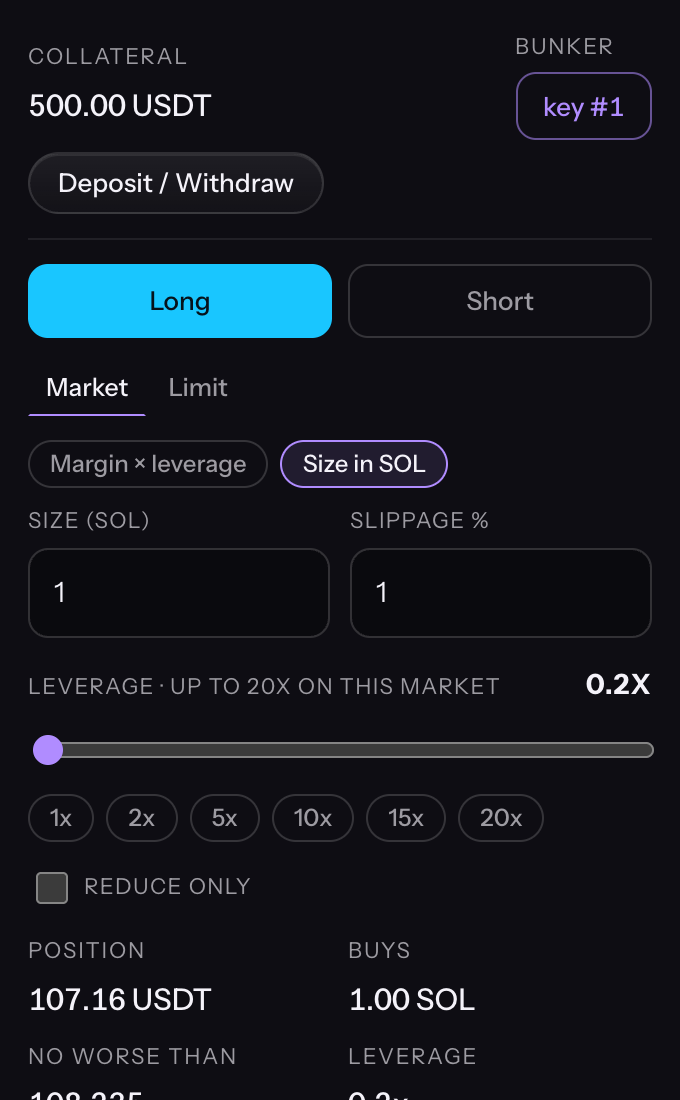
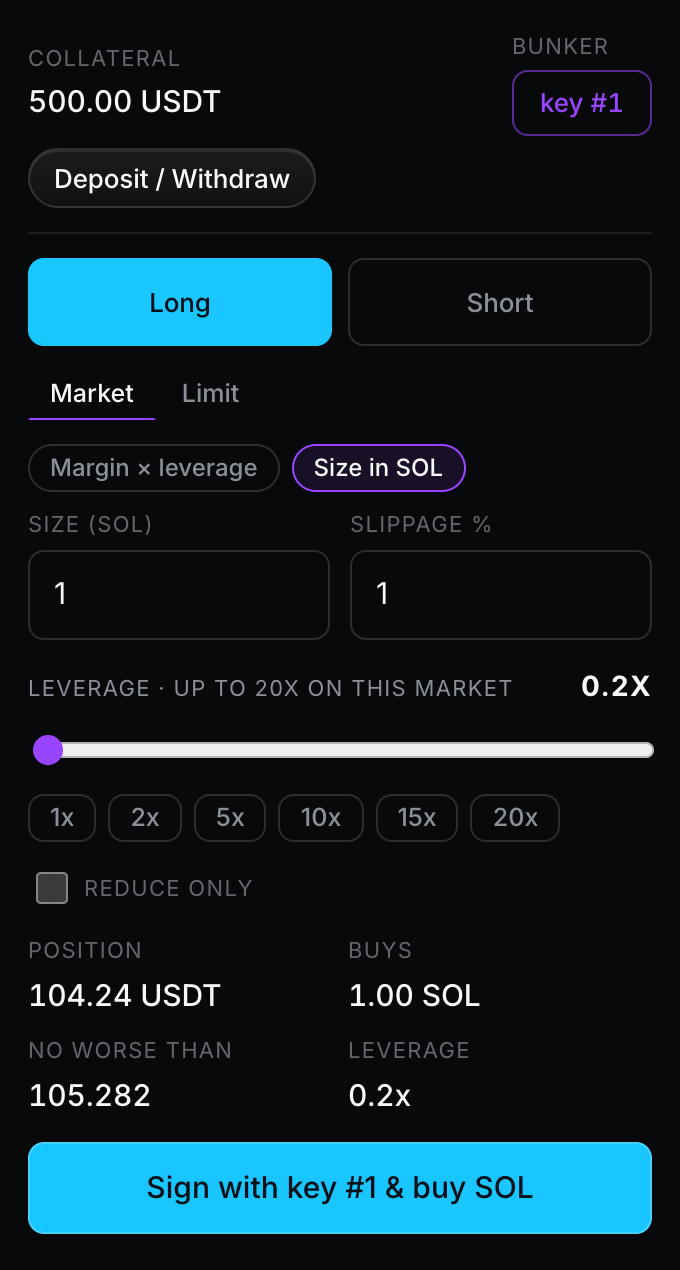
Home: a trail of purple light follows the pointer across the dark and the words light up from behind; the terminal block shows the chart and the whole order panel, nothing cut

Changed region(s): [[0.0309, 0.0309, 0.9574, 1.0], [0.7412, 0.0309, 0.9574, 0.1236], [0.9265, 0.2782, 0.9574, 0.3091]]

diff --git a/web/src/style.css b/web/src/style.css
@@ -1130,3 +1130,18 @@ input, textarea, select { font-family: var(--font); font-size: 15px; letter-spac
 #app .side button.long:not(.on), #app .side button.short:not(.on) { background: transparent; color: var(--muted); border: 1px solid var(--line-strong); }
 .brand b { font-family: var(--font-title); text-transform: none; letter-spacing: -0.02em; font-weight: 500; }
 .brand b span { color: var(--text); }
+
+/* ---- the purple trail under the pointer, and the words lit from behind ---- */
+.trail { position: fixed; inset: 0; z-index: 4; pointer-events: none; mix-blend-mode: screen; opacity: 0; transition: opacity 0.5s ease; }
+.trail.on { opacity: 1; }
+.trail i { position: absolute; left: 0; top: 0; border-radius: 50%; background: radial-gradient(circle, rgba(153, 69, 255, 0.55) 0%, rgba(153, 69, 255, 0.18) 38%, transparent 70%); filter: blur(22px); will-change: transform; }
+.trail i:nth-child(3) { background: radial-gradient(circle, rgba(220, 31, 255, 0.5) 0%, rgba(176, 140, 255, 0.2) 40%, transparent 70%); filter: blur(14px); }
+h1, h2, .n6-statement p, .n6-head p, .n6-proof b, .n6-fig h3, .n6-steps h3, .n6-links b, .n6-agent .who b { transition: text-shadow 0.45s ease, color 0.3s ease; }
+h1:hover, h2:hover, .n6-statement p:hover, .n6-fig:hover h3, .n6-steps li:hover h3, .n6-links a:hover b, .n6-agent:hover .who b, .n6-proof li:hover b { text-shadow: 0 0 28px rgba(153, 69, 255, 0.75), 0 0 70px rgba(153, 69, 255, 0.35); }
+.n6-statement p:hover b, .n6-hero h1:hover em { color: var(--text); }
+.n6-fig:hover .n6-art .iso path { stroke: rgba(220, 200, 255, 0.75); }
+.n6-fig .n6-art .iso path { transition: stroke 0.5s ease, stroke-dashoffset 1.2s cubic-bezier(0.2, 0.7, 0.2, 1); }
+.n6-links a, .n6-steps li, .n6-agent, .n6-proof li, .n6-fig { position: relative; isolation: isolate; --mx: 50%; --my: 50%; }
+.n6-links a::before, .n6-steps li::before, .n6-agent::before, .n6-proof li::before, .n6-fig::before { content: ''; position: absolute; inset: -6px -12px; border-radius: 10px; pointer-events: none; z-index: -1; opacity: 0; transition: opacity 0.4s ease; background: radial-gradient(240px circle at var(--mx) var(--my), rgba(153, 69, 255, 0.16), transparent 62%); }
+.n6-links a:hover::before, .n6-steps li:hover::before, .n6-agent:hover::before, .n6-proof li:hover::before, .n6-fig:hover::before { opacity: 1; }
+@media (pointer: coarse) { .trail { display: none; } }

diff --git a/web/src/fx.ts b/web/src/fx.ts
@@ -97,9 +97,31 @@ export function countUp(root: ParentNode = document) {
   els.forEach((el) => io.observe(el))
 }
 
+/** A trail of purple light that follows the pointer across the dark, three blobs with growing lag; it stays off the terminal. */
+export function trail() {
+  if (still || wired.has('trail') || matchMedia('(pointer: coarse)').matches) return
+  wired.add('trail')
+  const host = document.createElement('div'); host.className = 'trail'; host.setAttribute('aria-hidden', 'true')
+  const blobs = [520, 340, 200].map((s, i) => { const b = document.createElement('i'); b.style.width = b.style.height = `${s}px`; b.style.opacity = String(0.28 + i * 0.12); host.appendChild(b); return { el: b, x: innerWidth / 2, y: innerHeight / 2, k: 0.08 + i * 0.07 } })
+  document.body.appendChild(host)
+  let tx = innerWidth / 2, ty = innerHeight / 2, on = false, raf = 0
+  const tick = () => {
+    for (const b of blobs) { b.x += (tx - b.x) * b.k; b.y += (ty - b.y) * b.k; b.el.style.transform = `translate(${b.x.toFixed(1)}px, ${b.y.toFixed(1)}px) translate(-50%, -50%)` }
+    raf = requestAnimationFrame(tick)
+  }
+  addEventListener('pointermove', (e) => {
+    tx = e.clientX; ty = e.clientY
+    const overApp = !!(e.target as Element | null)?.closest?.('.term, .drawer, .gate, .nav')
+    host.classList.toggle('on', !overApp)
+    if (!on) { on = true; tick() }
+  }, { passive: true })
+  document.addEventListener('pointerleave', () => host.classList.remove('on'))
+  document.addEventListener('visibilitychange', () => { if (document.hidden) { cancelAnimationFrame(raf); on = false } })
+}
+
 /** Everything, once the page is there. New content (the wizard re-renders) is covered by the CSS selectors alone. */
 export function all() {
-  spotlight(); buttons(); sections()
+  spotlight(); buttons(); sections(); trail()
   const h1 = document.querySelector<HTMLElement>('.z-hero h1')
   if (h1) { const go = () => { if (document.documentElement.classList.contains('intro-wait')) setTimeout(go, 150); else words(h1) }; go() }
   const metrics = document.getElementById('home-metrics')

diff --git a/web/src/home6.css b/web/src/home6.css
@@ -76,8 +76,8 @@
 .n6-more i { font-style: normal; transition: transform 0.25s cubic-bezier(0.2, 0.7, 0.2, 1); }
 .n6-more:hover i { transform: translateX(3px); }
 .n6-visual { margin-top: clamp(40px, 7vh, 80px); }
-.n6-two { display: grid; grid-template-columns: minmax(0, 2.2fr) minmax(0, 0.95fr); gap: 14px; align-items: stretch; }
-.n6-two .n6-shot { display: flex; } .n6-two .n6-shot img { object-fit: cover; object-position: left top; height: 100%; }
+.n6-two { display: grid; grid-template-columns: minmax(0, 2.2fr) minmax(0, 0.95fr); gap: 14px; align-items: start; }
+.n6-two .n6-shot img { object-fit: unset; height: auto; }
 .n6-shot { margin: 0; padding: 8px; border-radius: 12px; background: #121316; border: 1px solid rgba(255, 255, 255, 0.07); box-shadow: 0 0 0 1px rgba(0, 0, 0, 0.6), 0 30px 80px -40px rgba(0, 0, 0, 0.9), inset 0 1px 0 rgba(255, 255, 255, 0.05); }
 .n6-shot img { display: block; width: 100%; height: auto; border-radius: 6px; border: 1px solid rgba(255, 255, 255, 0.06); }
 .n6-feats { margin-top: clamp(40px, 6vh, 64px); display: grid; grid-template-columns: minmax(0, 1fr) minmax(0, 1.2fr); gap: clamp(32px, 6vw, 120px); }

diff --git a/web/index.html b/web/index.html
@@ -80,7 +80,7 @@
           </header>
           <div class="n6-visual n6-two" data-reveal>
             <figure class="n6-shot"><img src="/terminal-chart.png" width="1800" height="1394" alt="The chart with the agents' entries and the resting bid" loading="lazy" /></figure>
-            <figure class="n6-shot"><img src="/terminal-order.png" width="680" height="1100" alt="The order form: collateral, long or short, margin and leverage, the sign button" loading="lazy" /></figure>
+            <figure class="n6-shot"><img src="/terminal-order.png" width="680" height="1270" alt="The order form: collateral, long or short, margin and leverage, the sign button" loading="lazy" /></figure>
           </div>
           <div class="n6-feats" data-reveal>
             <p class="n6-feats-k">Features</p>
